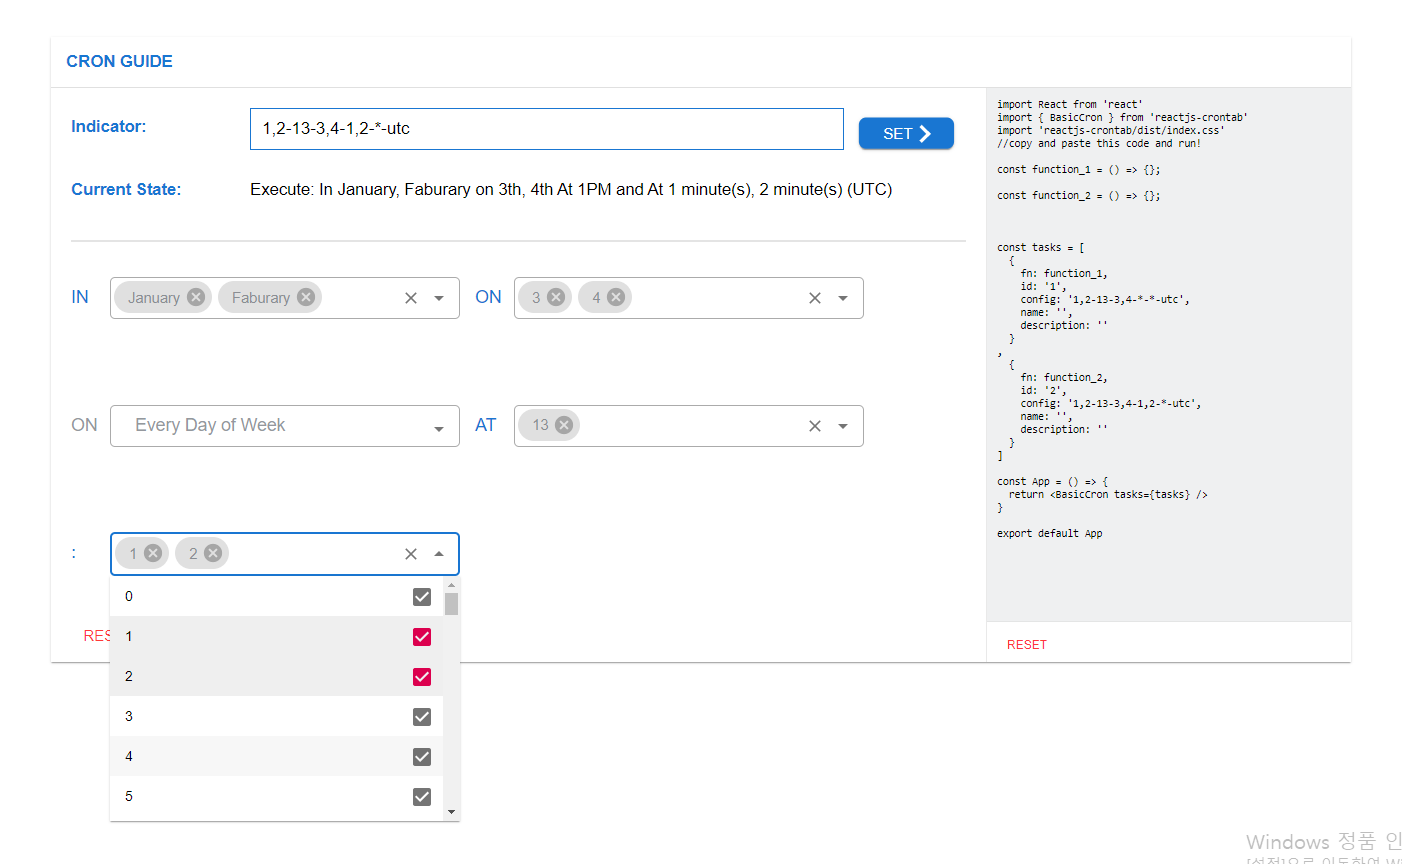
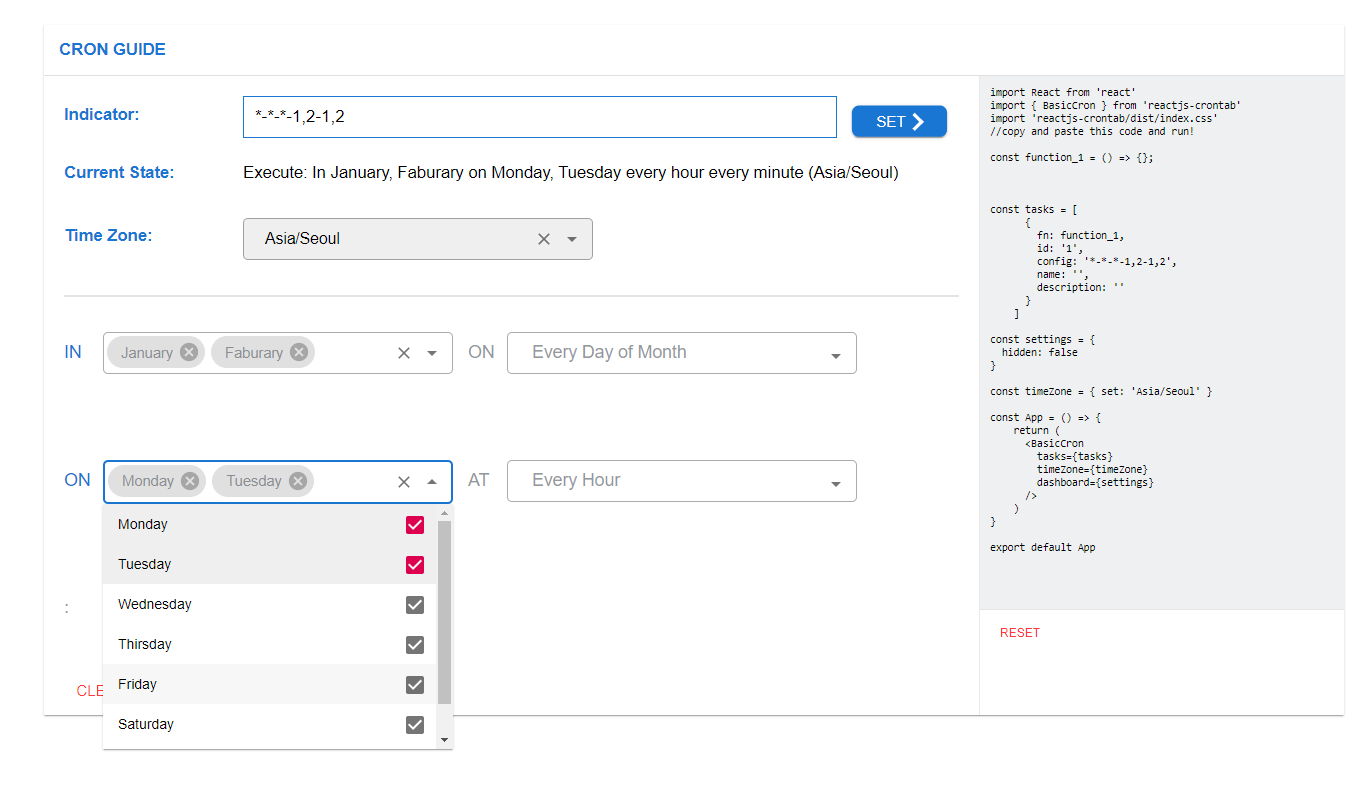
removed guide component and its css updated readme

diff --git a/demo/src/App.js b/demo/src/App.js
@@ -36,7 +36,7 @@ const function_1 = () => {
           {
             fn: function_2,
             id: '2',
-            config: '*-21-*-12-6-utc',
+            config: '*-6-*-12-6',
             name: '',
             description: ''
           }
@@ -44,7 +44,7 @@ const function_1 = () => {
           {
             fn: function_3,
             id: '3',
-            config: '*-21-*-12-6',
+            config: '*-6-*-12-6',
             name: '',
             description: ''
           }
@@ -52,7 +52,7 @@ const function_1 = () => {
           {
             fn: function_4,
             id: '4',
-            config: '*-21-*-12-6-utc',
+            config: '*-6-*-12-6',
             name: '',
             description: ''
           }
@@ -62,7 +62,7 @@ const function_1 = () => {
       hidden: false
     }
     
-    const timeZone = 'local'
+    const timeZone = {set: "America/Chicago"}
         
     const App = () => {
         return (

diff --git a/src/contexts/basic/BasicCronContext.jsx b/src/contexts/basic/BasicCronContext.jsx
@@ -59,6 +59,7 @@ const detectTaskTime = (convertedConfigArr, timeZone) => {
   const Dow = now.getDay()
   const currentMon = Mon + 1
   const currentDow = foramtDow(Dow) // Sunday = 0, Monday = 1, etc.
+  // console.log('now ::', now)
   // console.log('now currentMin::', currentMin)
   // console.log('now currentHour::', currentHour)
   // console.log('now currentDom::', currentDom)
